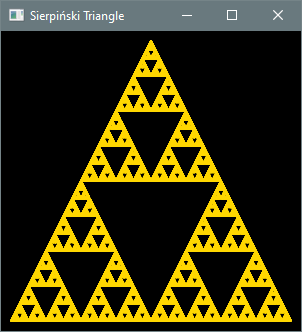
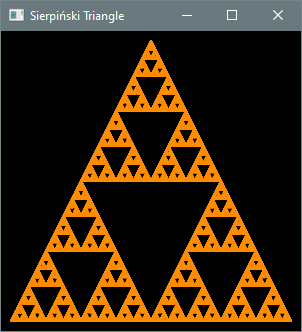
Initial commit for 6.2

Changed region(s): [[0.0298, 0.1205, 0.9834, 0.994]]

diff --git a/code/src/chap06/sect2/Fractal.java b/code/src/chap06/sect2/Fractal.java
@@ -41,7 +41,7 @@ public class Fractal extends Application {
             currentPoint = midpoint(currentPoint, randomCorner);
 
             // draw a dot at location of current point
-            Circle dot = new Circle(currentPoint.getX(), currentPoint.getY(), 1, Color.GOLD);
+            Circle dot = new Circle(currentPoint.getX(), currentPoint.getY(), 1, Color.DARKORANGE);
             root.getChildren().add(dot);
         }
 

diff --git a/code/src/chap06/sect2/PiApproximator.java b/code/src/chap06/sect2/PiApproximator.java
@@ -1,7 +1,7 @@
 package chap06.sect2;
 
 /**
- * Approximates the value of π using the Leibniz series: π = 4 - 4/3 + 4/5 - 4/7 + 4/9 - ...
+ * Approximates π using the Leibniz series: π = 4 - 4/3 + 4/5 - 4/7 + 4/9 - ...
  *
  * @author Drue Coles
  */

diff --git a/docs/chapter6/for-loops.md b/docs/chapter6/for-loops.md
@@ -1,14 +1,12 @@
 # 6.2 `for` Loops
 
-THIS SECTION IS STILL UNDER CONSTRUCTION
-
 **Key terms:** loop control variable
 
 ## 6.2.1 Syntax and Semantics
 
 The following code uses a `while` loop to output a sequence of 20 asterisks. The variable `i` is 
-referred to as a **loop control variable**: its value is updated in a consistent way in each 
-iteration, and once it attains a certain value the loop ends.
+a **loop control variable**: it is initialized before the loop, tested as a condition for 
+executing the body, and updated after each iteration. 
 
 ```java
 int i = 0; 
@@ -18,13 +16,13 @@ while (i < 20) {
 }
 ```
 
-Not every loop involves the use of a loop control variable. For example, the loop in the 
-`GamblersRuin` program from the previous section continues while the gambler's balance is greater 
-than zero, but the balance fluctuates unpredictably. When a loop control variable is used, there are 
-three basic steps involved in its management: initializing the variable, testing the condition to 
-continue looping (which depends on the variable's current value), and updating the variable. A `for` 
-loop enables the code for these three steps to be written together on the same line for compactness 
-and improved readability. The preceding code may be written as:
+Not all loops use a loop control variable. For example, the loop in the `GamblersRuin` program from 
+the previous section continues while the gambler's balance is greater than zero, and the balance 
+fluctuates unpredictably. However, when a loop control variable *is* used, the code follows a 
+regular pattern: initialization, condition check, and update. 
+
+A `for` loop enables these three components to be written in a single compact statement. The 
+previous example can be rewritten as:
 
 ```java
 for (int i = 0; i < 20; i++) { 
@@ -36,27 +34,25 @@ The general syntax of a `for` loop is:
 
 ```java
 for (S1; E; S2) { 
-   // body
+   // conditionally executed code
 } 
 ```
-The first statement (*S1*) typically declares and initializes a loop control variable, although 
-in principle it could be any valid statement. It is executed once and only once. Next, Boolean 
-expression *E* (which depends on the loop control variable) is evaluated: if `true`, the body is 
-executed and then statement *S2* is executed (which typically updates the loop control 
-variable). The flow of execution then returns to the evaluation step. If *E* is `false`, 
-execution continues with the code following the loop.
+The first component (*S1*), which typically declares and initializes a loop control variable, 
+is executed once before the loop begins. The condition *E* is evaluated before each iteration of 
+the body; if it is `true` then the body is executed, otherwise execution continues after the loop. 
+After each iteration, the update step (*S2*) is executed and the cycle repeats with another 
+evaluation of *E*.
 
-Listing 6.2.1a is a revision of the `Summer` program from the previous section using a `for` loop 
-instead of a `while` loop.
+Listing 6.2.1a revises the `Summer` program from the previous section using a `for` loop instead of 
+a `while` loop.
 
 #### Listing 6.2.1a - [Summer.java](https://github.com/drue-coles/cmsc-120/blob/master/code/src/chap06/sect2/Summer.java)
 ``` java title="Summer.java"
 --8<-- "code/src/chap06/sect2/Summer.java"
 ```
 
-Listing 6.2.1b is a less trivial but still simple application. It approximates the value of π by 
-calculating partial sums of an infinite series familiar to students of calculus. The Unicode 
-character for the Greek letter π is used as part of the program’s output. 
+Listing 6.2.1b presents a more substantial application. It approximates π using partial sums of an 
+infinite series familiar to students of calculus. 
 
 #### Listing 6.2.1b - [PiApproximator.java](https://github.com/drue-coles/cmsc-120/blob/master/code/src/chap06/sect2/PiApproximator.java)
 ``` java title="PiApproximator.java"
@@ -71,12 +67,12 @@ character for the Greek letter π is used as part of the program’s output.
 
 ## 6.2.2 Case Study: Game of Craps
 
-Craps is an old single-player dice game that is still played in casinos. In fact, it offers the 
-player the highest probability of winning among all common casino games. That probability is less 
-than 50% of course, but as we will see later, it is close. Chapter 5 presented several versions of a 
-program that simulates the first roll of the game, but now with loops in our repertoire, we can carry 
-out the game to its conclusion. Listing 6.2.2 is a complete Craps-playing program. The rules are 
-described in the class documentation.
+Craps is a traditional single-player dice game that is still played in casinos. In fact, it offers 
+the player the highest probability of winning among all common casino games. That probability is 
+less than 50%, but it is close (as will be seen in Section 6.3). 
+
+Chapter 5 presented a program that simulates the first roll of the game. Listing 6.2.2 simulates 
+the game in its entirety. The rules are described in the class documentation.
 
 #### Listing 6.2.2 - [Craps.java](https://github.com/drue-coles/cmsc-120/blob/master/code/src/chap06/sect2/Craps.java)
 ``` java title="Craps.java"
@@ -124,22 +120,24 @@ A <a href="https://en.wikipedia.org/wiki/Sierpi%C5%84ski_triangle">Sierpiński t
 a <a href="https://en.wikipedia.org/wiki/Fractal">fractal</a> that can be constructed in the 
 following way: Start with an equilateral triangle. Partition it into four smaller congruent 
 equilateral triangles and remove the one in the center. Repeat this process for each of the 
-remaining triangles, and continue in this way indefinitely.
+remaining triangles, continuing indefinitely.
 
-Figure 6.2.3: [Construction of Sierpiński triangle](images/figure6.2.3.png)
+Figure 6.2.3: [Construction of a Sierpiński triangle](images/figure6.2.3.png)
 
-Amazingly, the same result can be obtained using randomness in a way that is much easier to program. 
-Start by fixing three corners of a triangle, then repeat the following steps: 
+Remarkably, the same result can be obtained using randomness in a way that is much easier to 
+program. Start by fixing three corners of a triangle, then repeat the following steps: 
 
-1. choose a random corner
-2. move halfway from current point toward that corner
-3. draw a dot at the new location
+1. Choose a random corner.
+2. Move halfway from the current point toward that corner.
+3. Draw a dot at the new location.
 
-You would probably not expect anything other than an unstructured smear of dots to arise from 
-this process, but after many repetitions the very delicate structure of a Sierpiński triangle 
-begins to emerge. Listing 6.2.3 is a JavaFX application that performs these steps to draw the 
-fractal. This application is a bit longer and more involved than earlier ones, but the documentation 
-clarifies the coding logic. You might enjoy experimenting with the dot size and the number of dots.
+You would probably not expect anything other than an unstructured smear of dots to arise from this 
+process, but after many repetitions the intricate structure of a Sierpiński triangle begins to 
+emerge. 
+
+Listing 6.2.3 is a JavaFX application that performs these steps to draw the fractal. This 
+application is a bit longer and more involved than earlier ones, but the documentation clarifies the 
+logic. 
 
 #### Listing 6.2.3 - [Fractal.java](https://github.com/drue-coles/cmsc-120/blob/master/code/src/chap06/sect2/Fractal.java)
 ``` java title="Fractal.java"
@@ -148,3 +146,5 @@ clarifies the coding logic. You might enjoy experimenting with the dot size and 
 
 ??? "Output 6.2.3"
     ![Output 6.2.3 – Fractal window](images/output6.2.3.png)
+
+Try experimenting with the dot size and the number of dots.
